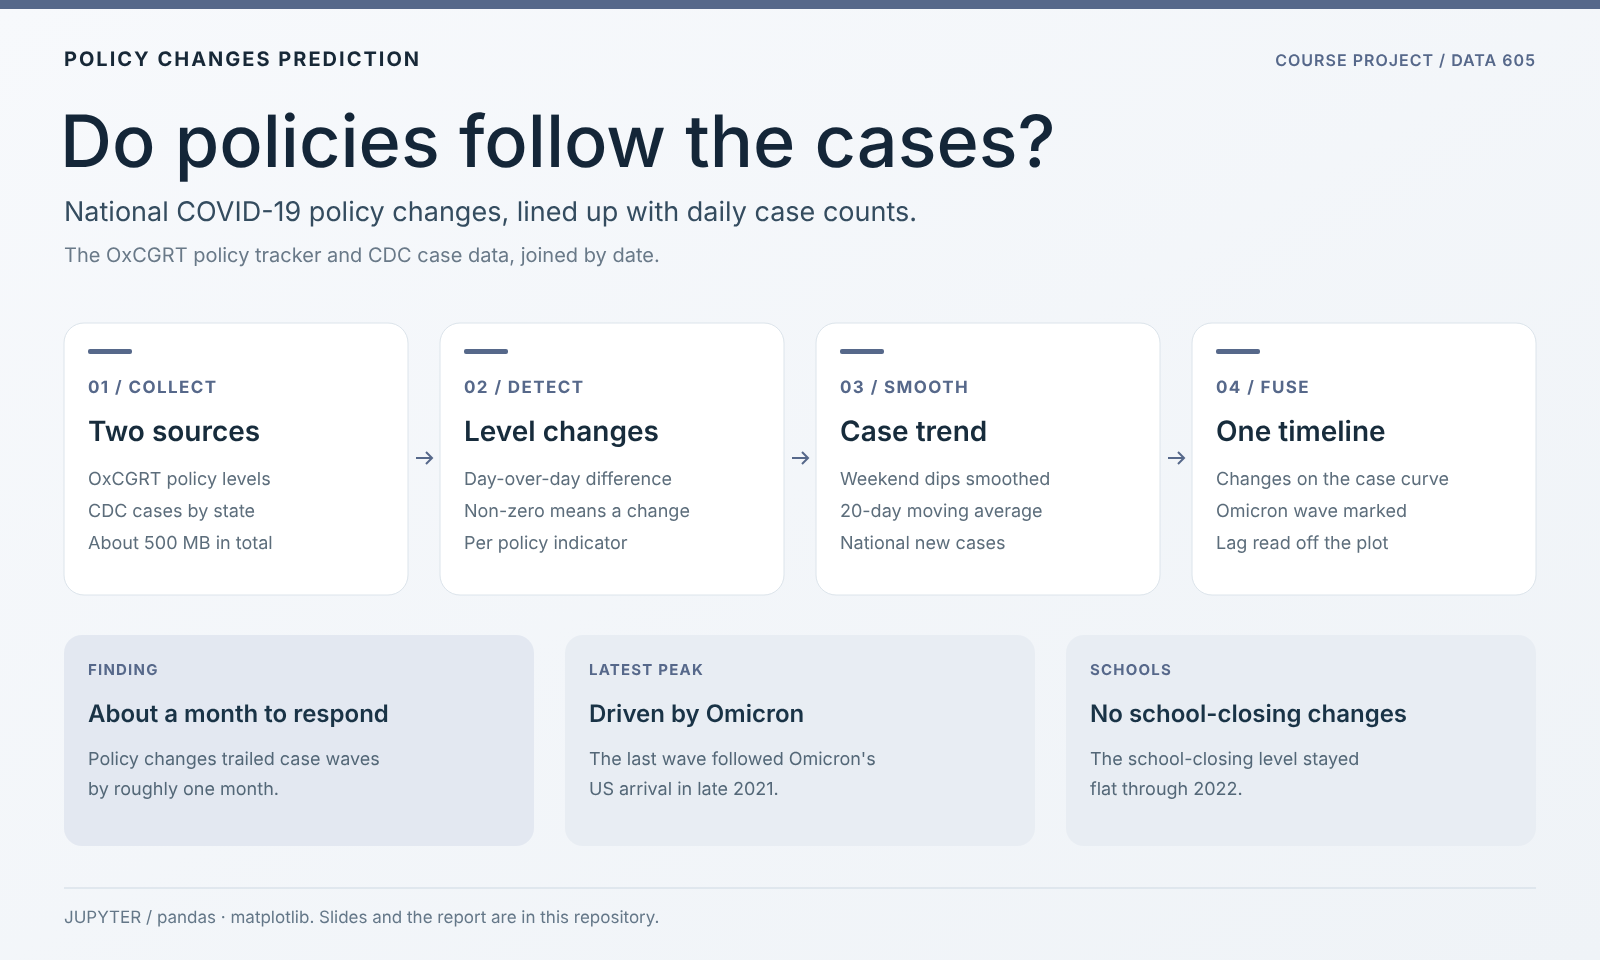
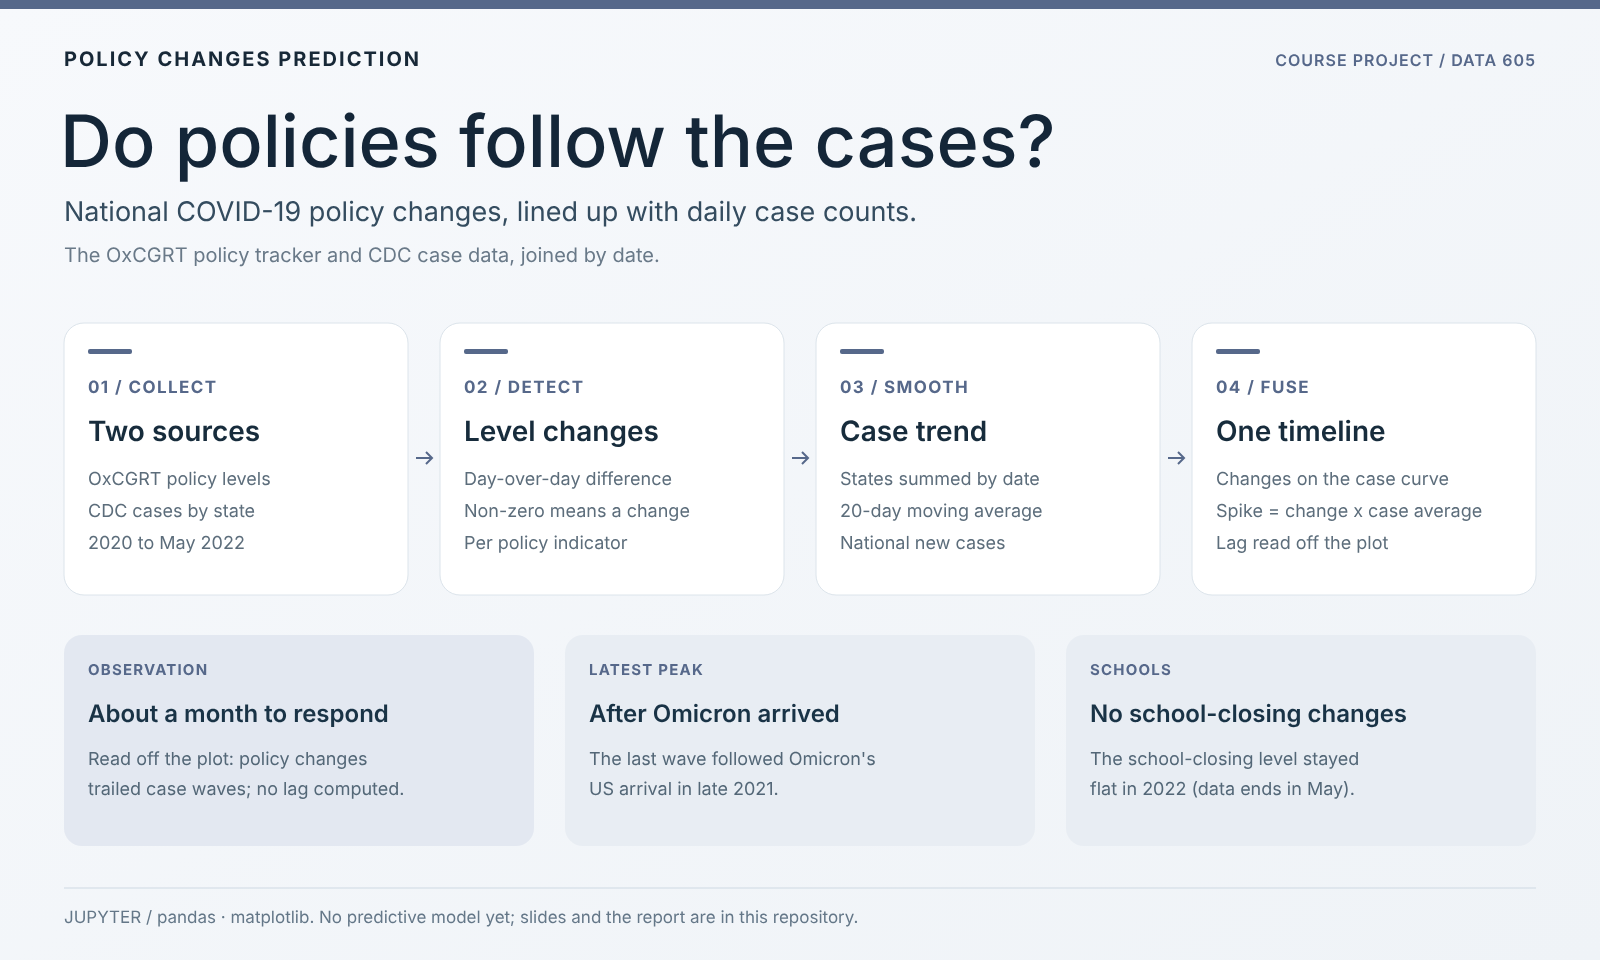
docs: describe what the code does

diff --git a/README.zh-CN.md b/README.zh-CN.md
@@ -30,9 +30,10 @@
 
 ## 亮点
 
-- **数据来源：** [OxCGRT](https://github.com/OxCGRT/covid-policy-tracker) 的国家政策等级，以及 CDC 按州统计的每日病例数，按日期拼接。
+- **数据来源：** [OxCGRT](https://github.com/OxCGRT/covid-policy-tracker) 的国家政策等级，以及 CDC 按州统计的每日病例数（汇总为全国总数），按日期拼接。
 - **方法：** 政策指标的等级只要与前一天不同，就记为一次政策变化；病例数用 20 天移动平均平滑后，与政策画在同一条时间轴上。
-- **发现：** 政策变化比病例高峰滞后约一个月；最近一次高峰出现在 Omicron 传入美国之后；2022 年学校关闭（school closing）等级没有变化。
+- **观察：** 从合并后的图上看，政策变化比病例高峰滞后约一个月，最近一次高峰出现在 Omicron 传入美国之后；代码并未计算滞后。notebook 确认 2022 年学校关闭（school closing）等级没有变化。
+- **预测：** 目前没有训练任何预测模型。`tool/policy_wise_exploration.ipynb` 搭了树回归模型的框架，但其输入路径（`../outputs/ .csv`）指向一个仓库中不存在的文件。
 
 ## 架构
 
@@ -66,14 +67,14 @@ flowchart TD
 
 ## 快速开始
 
-在 Jupyter 中打开 `final/Final(pandas).ipynb`；各年份的政策分类器（policy classifier）位于 `tool/`。
+在 Jupyter 中打开 `final/Final(pandas).ipynb`。`tool/<year> policy classifier.ipynb` 这几个 notebook 按国家（中国、意大利、英国、美国）筛选每年的 OxCGRT 文件，并不训练分类器。
 
 ## 目录结构
 
 | 路径 | 用途 |
 |---|---|
 | `final/` | 最终分析 notebook 与各国政策 CSV（2020–2022） |
-| `tool/` | 政策分类器与探索性 notebook |
+| `tool/` | 各年份按国家筛选的 notebook（`<year> policy classifier.ipynb`）、美国政策变化检测，以及一个未完成的建模 notebook |
 | `data/` | 原始及清洗后的政策数据和病例数据 |
 | `outputs/` | 检测出的 2022 年国家级与州级政策变化 |
 | `docs/` | 报告、幻灯片和海报 |

diff --git a/README.md b/README.md
@@ -30,9 +30,10 @@
 
 ## Highlights
 
-- **Sources:** [OxCGRT](https://github.com/OxCGRT/covid-policy-tracker) national policy levels and CDC daily case counts by state, joined by date.
+- **Sources:** [OxCGRT](https://github.com/OxCGRT/covid-policy-tracker) national policy levels and CDC daily case counts by state, summed to national totals and joined by date.
 - **Method:** a policy change is any day-over-day difference in a policy indicator's level; cases are smoothed with a 20-day moving average and plotted on the same timeline.
-- **Findings:** policy changes trailed case waves by about a month; the latest peak followed Omicron's arrival in the US; the school-closing level did not change in 2022.
+- **Observations:** read from the combined plot, policy changes trailed case waves by about a month and the latest peak followed Omicron's arrival in the US; the code computes no lag. The notebook confirms that the school-closing level did not change in 2022.
+- **Prediction:** no predictive model is trained. `tool/policy_wise_exploration.ipynb` sketches tree regressors, but its input path (`../outputs/ .csv`) points to a file that is not in the repository.
 
 ## Architecture
 
@@ -66,14 +67,14 @@ Arrows follow the data. The `tool/` notebooks split the OxCGRT files by country 
 
 ## Quick start
 
-Open `final/Final(pandas).ipynb` in Jupyter; the policy classifiers for each year are in `tool/`.
+Open `final/Final(pandas).ipynb` in Jupyter. The `tool/<year> policy classifier.ipynb` notebooks filter each year's OxCGRT file by country (China, Italy, UK, USA); they do not train a classifier.
 
 ## Repository layout
 
 | Path | Purpose |
 |---|---|
 | `final/` | Final analysis notebooks and per-country policy CSVs (2020–2022) |
-| `tool/` | Policy classifiers and exploration notebooks |
+| `tool/` | Per-year country filters (`<year> policy classifier.ipynb`), US change detection and an unfinished modelling notebook |
 | `data/` | Raw and cleaned policy and case data |
 | `outputs/` | Detected national and state policy changes for 2022 |
 | `docs/` | Report, slides and poster |
